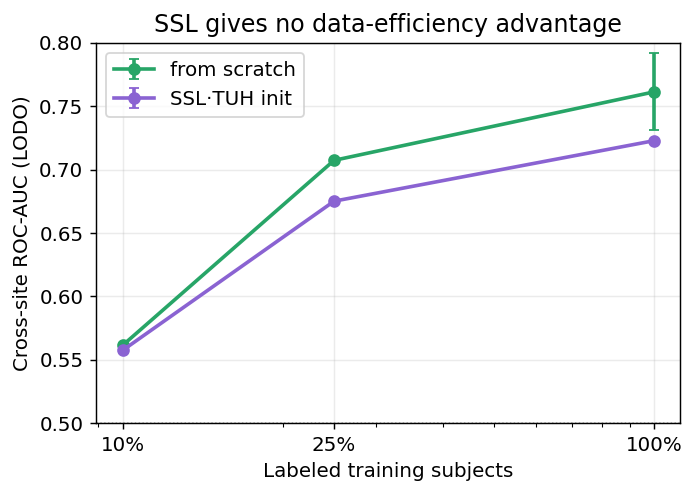
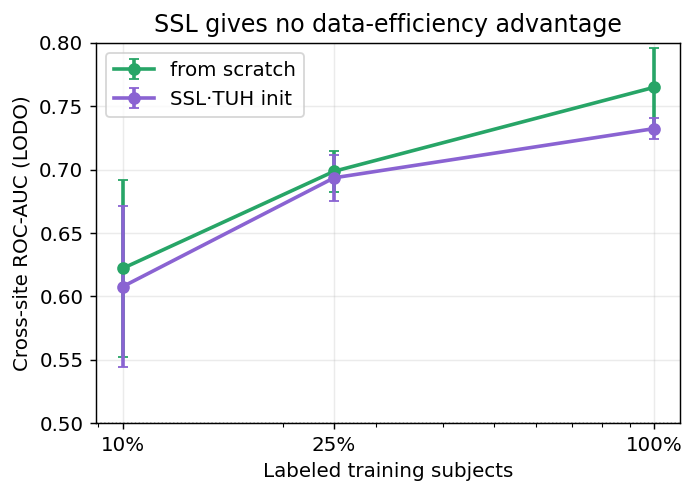
results: seeded data-efficiency grid (3 seeds) — SSL no advantage, with error bars
Fig 4 + dashboard grid + draft updated to 3-seed means. SSL-TUH fine-tune tracks
from-scratch at every label budget (bands overlap); the single-seed OpenN@10%
'edge' was noise. Removes the 'extending to seeds' caveat.

diff --git a/dashboard/index.html b/dashboard/index.html
@@ -191,12 +191,12 @@
       <div class="note">Augmentation ablation: no-aug AUC 0.763 vs aug 0.764 — <b>no effect</b>. The SSL numbers barely move across random seeds (±0.002): this negative is rock-solid, not noise.</div>
     </div>
     <div class="card">
-      <h3>Does SSL help when labels are scarce? <span class="pill p-amber">data-efficiency, seed 0</span></h3>
+      <h3>Does SSL help when labels are scarce? <span class="pill p-amber">data-efficiency, 3 seeds</span></h3>
       <table>
         <thead><tr><th>pretraining</th><th class="num">10% labels</th><th class="num">25% labels</th><th class="num">100% labels</th></tr></thead>
         <tbody id="de-grid"></tbody>
       </table>
-      <div class="note">SSL is supposed to shine when labels are scarce. It doesn't here: <b>TUH-init ≈ from-scratch at every budget</b>. Only same-domain OpenNeuro@10% gives a sliver. (Cross-site AUC; higher = better.)</div>
+      <div class="note">SSL is supposed to shine when labels are scarce. It doesn't here: <b>TUH-init ≈ from-scratch at every budget</b> (bands overlap, scratch nominally ahead) — robust across 3 seeds. Supervised reaches ~0.70 AUC by 25% of labels; SSL doesn't lower that. (Cross-site AUC; higher = better.)</div>
     </div>
   </div>
 
@@ -273,11 +273,11 @@ renderBars("bars-ssl",[
   {lab:"SSL · TUH",      v:0.526, pm:"0.003", c:"var(--violet)"},
 ],1.0,[{lab:"chance 0.50",v:REF.chance}]);
 const de = [
-  {init:"from scratch", v:[0.561,0.707,0.729]},
-  {init:"SSL · TUH",    v:[0.557,0.675,0.723]},
-  {init:"SSL · OpenN",  v:[0.604,0.655,null]},
+  {init:"from scratch", v:[0.622,0.699,0.763]},
+  {init:"SSL · TUH",    v:[0.608,0.693,0.732]},
+  {init:"SSL · OpenN",  v:[0.604,0.655,0.733]},
 ];
-const colBest=[Math.max(0.561,0.557,0.604),Math.max(0.707,0.675,0.655),Math.max(0.729,0.723)];
+const colBest=[0.622,0.699,0.763];
 document.getElementById("de-grid").innerHTML = de.map(r=>
   `<tr><td><b>${r.init}</b></td>`+r.v.map((x,i)=>
     x==null?`<td class="num">—</td>`:`<td class="num ${x===colBest[i]?'best':''}">${x.toFixed(3)}</td>`).join("")+`</tr>`

diff --git a/paper/draft.md b/paper/draft.md
@@ -55,7 +55,7 @@ Under LODO, fixed-0.5 subject-level balanced accuracy is 0.585 ± 0.014 — near
 Across every evaluation, SSL fails to help (Fig. 3, Fig. 4):
 - **Linear probe.** Cross-site AUC is 0.581 ± 0.002 (OpenNeuro pretraining) and 0.526 ± 0.003 (disjoint TUH), versus 0.763 for the supervised model. The disjoint, larger-corpus encoder is the *weakest*, consistent with a domain mismatch between clinical TUH EEG and resting-state PD recordings.
 - **Fine-tuning.** Initializing supervised training from the TUH encoder matches training from scratch at full labels (AUC 0.72 vs 0.73).
-- **Data-efficiency.** Across label budgets of 10/25/100%, SSL-TUH fine-tuning tracks from-scratch training at every point; only same-domain OpenNeuro pretraining shows a small edge at 10% labels (Fig. 4). SSL does not reduce the label requirement (the supervised model reaches near-full cross-site AUC by ~25% of labels).
+- **Data-efficiency.** Across label budgets of 10/25/100% and three seeds, SSL-TUH fine-tuning tracks from-scratch training at every point (AUC 0.61 ± 0.06 vs 0.62 ± 0.07 at 10%, 0.69 ± 0.02 vs 0.70 ± 0.02 at 25%, 0.73 ± 0.01 vs 0.76 ± 0.03 at 100%; bands overlap, scratch nominally ahead) (Fig. 4). SSL does not reduce the label requirement: the supervised model reaches ~0.70 AUC by 25% of labels, and SSL initialization does not lower that.
 - **Augmentation.** Training-time augmentation gives no cross-site lift (AUC 0.763 vs 0.764).
 
 The negative is stable across seeds (SSL AUC standard deviations ≈ 0.002), so it is not seed noise.
@@ -68,4 +68,4 @@ Our results reframe what is known about cross-dataset PD-EEG. First, the widely 
 Cross-dataset PD-EEG accuracy, as conventionally reported, is largely a site artifact. Measured honestly with leave-one-dataset-out, threshold-independent metrics, and an explicit site-prior null, supervised detection transfers across sites at a real but modest level that is calibration-bound, and self-supervised pretraining does not improve it at the scales tested. We release the evaluation tooling to make these checks standard.
 
 ## Limitations
-Four datasets and three held-out sites; a single architecture; small subject counts per held-out site (31/50/149); SSL pretraining bounded by single-GPU scale (the disjoint TUH subset is ~20k segments, not the full corpus — a full-scale run would strengthen but is not expected to overturn the negative). Cross-site results use three seeds; the data-efficiency grid is being extended to multiple seeds.
+Four datasets and three held-out sites; a single architecture; small subject counts per held-out site (31/50/149); SSL pretraining bounded by single-GPU scale (the disjoint TUH subset is ~20k segments, not the full corpus — a full-scale run would strengthen but is not expected to overturn the negative). Cross-site and data-efficiency results use three seeds.